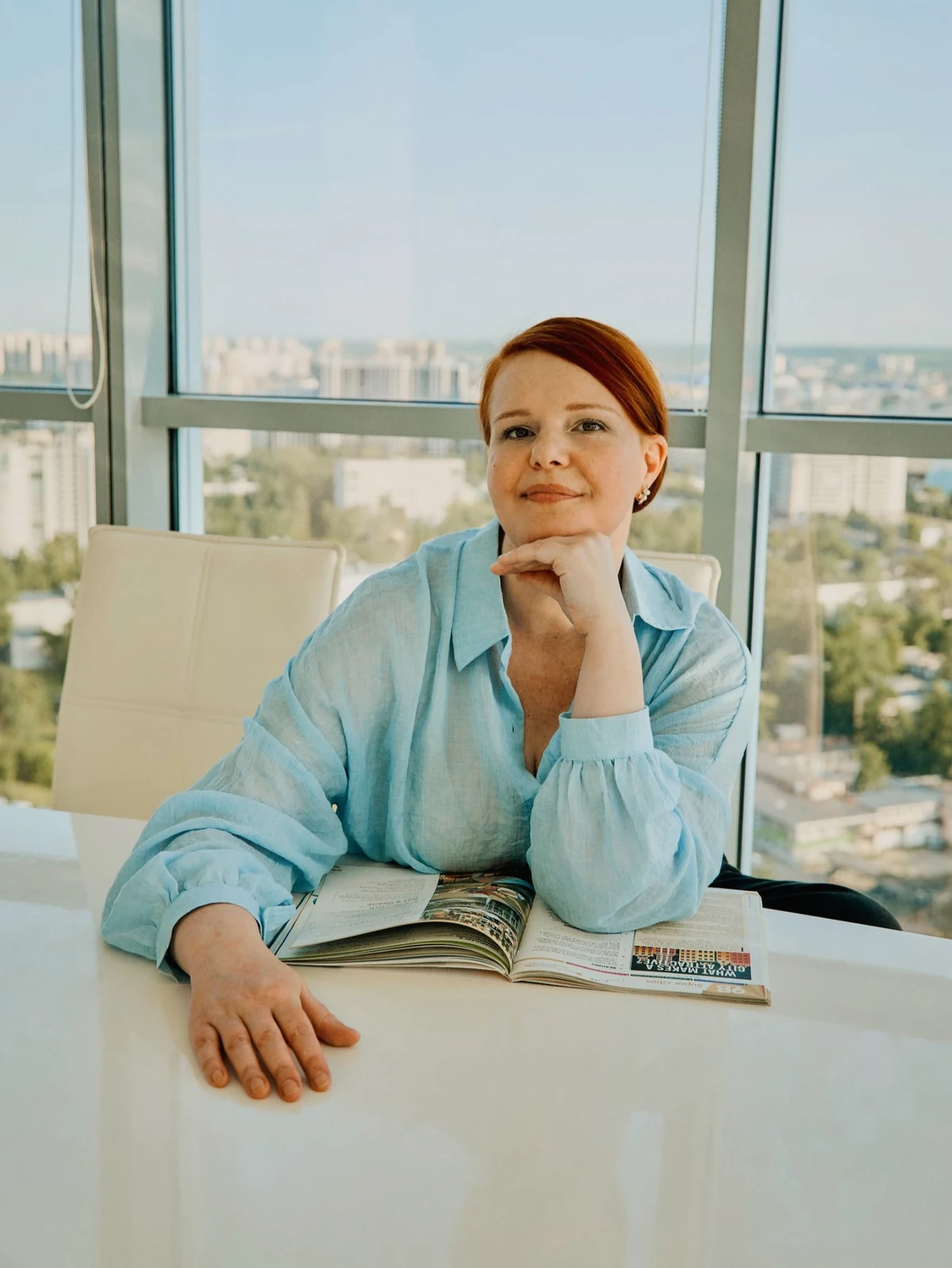
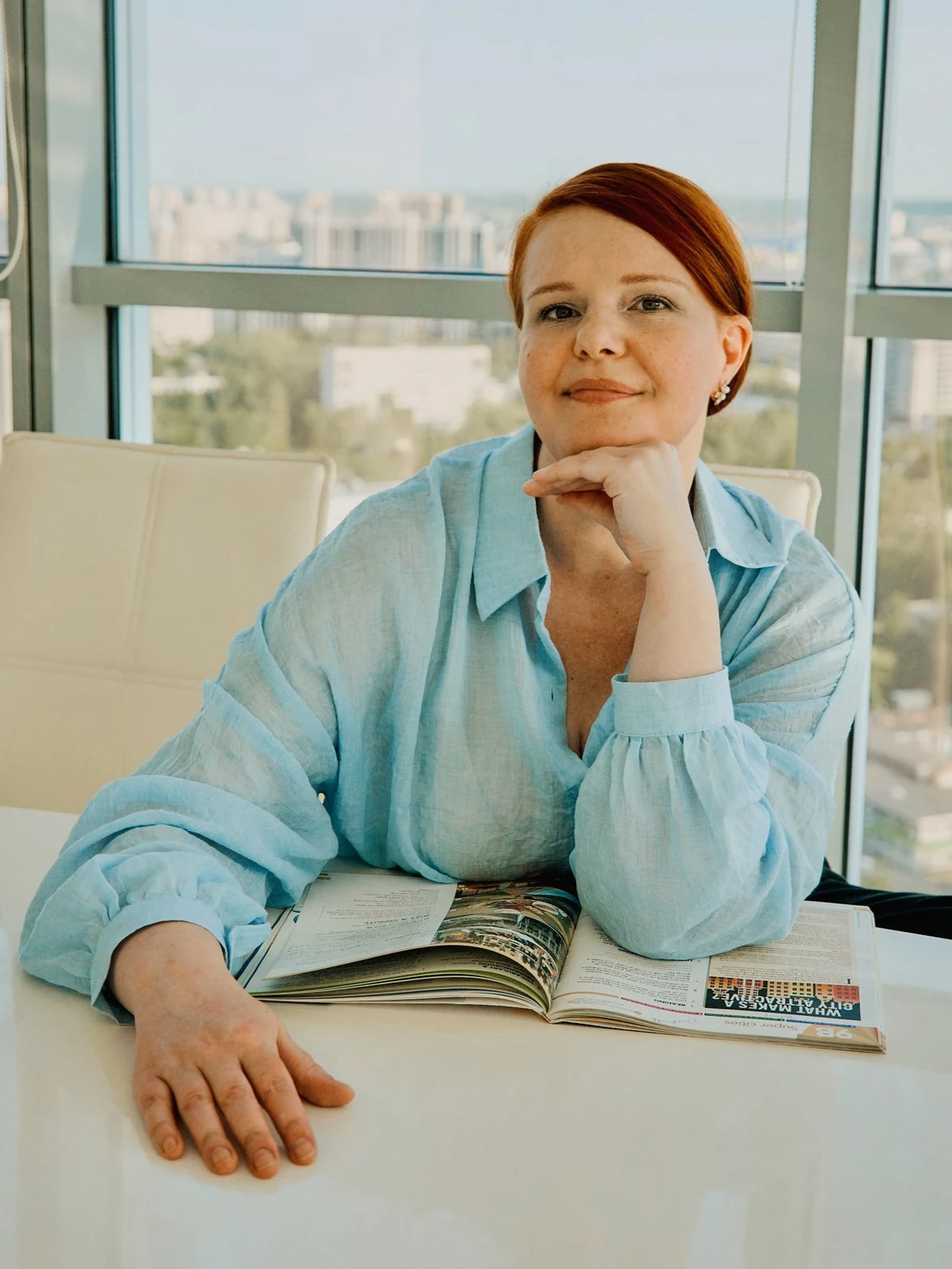
Add files via upload

diff --git a/index.html b/index.html
@@ -290,14 +290,14 @@
 <button aria-label="Скрыть лицензии и сертификаты" class="trust-docs-close" type="button">×</button>
 </div>
 <div class="doc-grid">
-<a aria-label="Документ 1" class="doc" href="assets/images/licenses/license-01.jpg"><div class="doc-preview"><img alt="Лицензия или сертификат 1" loading="lazy" src="assets/images/licenses/license-01.jpg"/></div></a>
-<a aria-label="Документ 2" class="doc" href="assets/images/licenses/license-02.jpg"><div class="doc-preview"><img alt="Лицензия или сертификат 2" loading="lazy" src="assets/images/licenses/license-02.jpg"/></div></a>
-<a aria-label="Документ 3" class="doc" href="assets/images/licenses/license-03.jpg"><div class="doc-preview"><img alt="Лицензия или сертификат 3" loading="lazy" src="assets/images/licenses/license-03.jpg"/></div></a>
-<a aria-label="Документ 4" class="doc" href="assets/images/licenses/license-04.jpg"><div class="doc-preview"><img alt="Лицензия или сертификат 4" loading="lazy" src="assets/images/licenses/license-04.jpg"/></div></a>
-<a aria-label="Документ 5" class="doc" href="assets/images/licenses/license-05.jpg"><div class="doc-preview"><img alt="Лицензия или сертификат 5" loading="lazy" src="assets/images/licenses/license-05.jpg"/></div></a>
-<a aria-label="Документ 6" class="doc" href="assets/images/licenses/license-06.jpg"><div class="doc-preview"><img alt="Лицензия или сертификат 6" loading="lazy" src="assets/images/licenses/license-06.jpg"/></div></a>
-<a aria-label="Документ 7" class="doc" href="assets/images/licenses/license-07.jpg"><div class="doc-preview"><img alt="Лицензия или сертификат 7" loading="lazy" src="assets/images/licenses/license-07.jpg"/></div></a>
-<a aria-label="Документ 8" class="doc" href="assets/images/licenses/license-08.jpg"><div class="doc-preview"><img alt="Лицензия или сертификат 8" loading="lazy" src="assets/images/licenses/license-08.jpg"/></div></a>
+<a aria-label="Документ 1" class="doc" href="assets/images/licenses/full/license-01.webp"><div class="doc-preview"><img alt="Лицензия или сертификат 1" decoding="async" height="594" loading="lazy" src="assets/images/licenses/thumbs/license-01.webp" width="420"/></div></a>
+<a aria-label="Документ 2" class="doc" href="assets/images/licenses/full/license-02.webp"><div class="doc-preview"><img alt="Лицензия или сертификат 2" decoding="async" height="594" loading="lazy" src="assets/images/licenses/thumbs/license-02.webp" width="420"/></div></a>
+<a aria-label="Документ 3" class="doc" href="assets/images/licenses/full/license-03.webp"><div class="doc-preview"><img alt="Лицензия или сертификат 3" decoding="async" height="594" loading="lazy" src="assets/images/licenses/thumbs/license-03.webp" width="420"/></div></a>
+<a aria-label="Документ 4" class="doc" href="assets/images/licenses/full/license-04.webp"><div class="doc-preview"><img alt="Лицензия или сертификат 4" decoding="async" height="594" loading="lazy" src="assets/images/licenses/thumbs/license-04.webp" width="420"/></div></a>
+<a aria-label="Документ 5" class="doc" href="assets/images/licenses/full/license-05.webp"><div class="doc-preview"><img alt="Лицензия или сертификат 5" decoding="async" height="594" loading="lazy" src="assets/images/licenses/thumbs/license-05.webp" width="420"/></div></a>
+<a aria-label="Документ 6" class="doc" href="assets/images/licenses/full/license-06.webp"><div class="doc-preview"><img alt="Лицензия или сертификат 6" decoding="async" height="594" loading="lazy" src="assets/images/licenses/thumbs/license-06.webp" width="420"/></div></a>
+<a aria-label="Документ 7" class="doc" href="assets/images/licenses/full/license-07.webp"><div class="doc-preview"><img alt="Лицензия или сертификат 7" decoding="async" height="594" loading="lazy" src="assets/images/licenses/thumbs/license-07.webp" width="420"/></div></a>
+<a aria-label="Документ 8" class="doc" href="assets/images/licenses/full/license-08.webp"><div class="doc-preview"><img alt="Лицензия или сертификат 8" decoding="async" height="594" loading="lazy" src="assets/images/licenses/thumbs/license-08.webp" width="420"/></div></a>
 </div>
 </div></article>
 <div class="trust-benefit-grid">
@@ -318,7 +318,7 @@
 </div>
 <p class="section-text">Нажмите «Узнать подробнее», чтобы прочитать о профессиональном опыте каждого специалиста</p>
 </div>
-<div class="team"><details class="team-card"><summary class="team-summary"><div class="team-photo-placeholder"><img alt="Анна — фотография" class="team-photo" loading="lazy" src="assets/images/team/team-01.webp"/></div><div class="team-meta"><h3>Анна</h3><p class="team-role">Основатель и генеральный директор, преподаватель английского языка</p></div><div class="team-summary-footer"><span class="team-toggle-label">Узнать подробнее</span><span aria-hidden="true" class="team-toggle"></span></div></summary><div class="team-detail"><div><h4>О специалисте</h4><p>Привет! Я — основатель и директор школы Фабрика Английского.</p><p>Закончила магистратуру кафедры лингвистики СПбГУП по направлению «перевод и межкультурная коммуникация» (английский и испанский языки), являюсь постоянным членом приемной комиссии СПбГУП.</p><p>Фабрика Английского появилась в 2017 году как проект, в котором мы собрали преподавателей - огромных энтузиастов и профессионалов своего дела, которые заряжают своей любовью и любопытством к английскому языку, и объединили общую философию — обучение языку как средству реального общения, а не просто набору правил и тестов. Для меня особенно важно, чтобы у каждого ученика была возможность научиться мыслить на иностранном языке и чувствовать себя уверенно в любой ситуации.</p><p>Моя цель — создать пространство, где знания превращаются в уверенность, а владение языком становится дверью к новым возможностям.</p></div></div></details><details class="team-card"><summary class="team-summary"><div class="team-photo-placeholder"><img alt="Елена — фотография" class="team-photo" loading="lazy" src="assets/images/team/team-02.webp"/></div><div class="team-meta"><h3>Елена</h3><p class="team-role">Заместитель директора по учебной части, преподаватель английского языка</p></div><div class="team-summary-footer"><span class="team-toggle-label">Узнать подробнее</span><span aria-hidden="true" class="team-toggle"></span></div></summary><div class="team-detail"><div><h4>О специалисте</h4><p>Всем привет! Я преподаю английский с 2009 года, специализируюсь на работе с подростками и взрослыми, академическом письме (Academic Writing) и подготовке к международным экзаменам. Мой уровень владения языком — C2 (подтверждён сертификатом CPE Grade A), а педагогические навыки подкреплены сертификатами TKT и CELTA (2015). Окончила РГПУ им. Герцена в 2007 году, а с 2018 года являюсь одним из основателей Фабрики Английского.</p><p>Моя ключевая особенность — сочетание академического подхода с глубоким знанием истории и культуры англоязычных стран, что позволяет делать занятия не только полезными, но и увлекательными. Учу не просто языку, а критическому мышлению и эффективной коммуникации, помогая ученикам раскрыть их потенциал.</p></div></div></details><details class="team-card"><summary class="team-summary"><div class="team-photo-placeholder"><img alt="Даниил — фотография" class="team-photo" loading="lazy" src="assets/images/team/team-03.webp"/></div><div class="team-meta"><h3>Даниил</h3><p class="team-role">Директор по развитию, преподаватель английского языка</p></div><div class="team-summary-footer"><span class="team-toggle-label">Узнать подробнее</span><span aria-hidden="true" class="team-toggle"></span></div></summary><div class="team-detail"><div><h4>О специалисте</h4><p>Хай! Я - опытный преподаватель с 8-летним стажем, специализируюсь на работе с подростками и взрослыми. Имею уровень владения языком C2, подтверждённый международными сертификатами, и высшее образование в области прикладной лингвистики (СПбПУ им. Петра Великого). Начинал карьеру как переводчик, а также долгое время работал в одной из ведущих частных школ Санкт-Петербурга. С 2018 года вхожу в команду Фабрики Английского.</p><p>Моя сильная сторона — умение находить подход к ученикам любого возраста, создавая комфортную и продуктивную атмосферу на занятиях. Готовлю к экзаменам системно, минимизируя стресс и делая упор на понимание языка, а не на механическое заучивание. Уверен, что английский — это не просто предмет, а инструмент для новых возможностей, и помогаю ученикам в этом убедиться.</p></div></div></details></div>
+<div class="team"><details class="team-card"><summary class="team-summary"><div class="team-photo-placeholder"><img alt="Анна — фотография" class="team-photo" loading="lazy" src="assets/images/team/team-01.webp"/></div><div class="team-meta"><h3>Анна</h3><p class="team-role">Основатель и генеральный директор, преподаватель английского языка</p><div aria-label="Ключевые компетенции: Анна" class="team-tags"><span class="team-tag">Основатель школы</span><span class="team-tag">Перевод и коммуникация</span><span class="team-tag">Английский и испанский</span><span class="team-tag">Управление обучением</span></div></div><div class="team-summary-footer"><span class="team-toggle-label">Узнать подробнее</span><span aria-hidden="true" class="team-toggle"></span></div></summary><div class="team-detail"><div><h4>О специалисте</h4><p>Привет! Я — основатель и директор школы Фабрика Английского.</p><p>Закончила магистратуру кафедры лингвистики СПбГУП по направлению «перевод и межкультурная коммуникация» (английский и испанский языки), являюсь постоянным членом приемной комиссии СПбГУП.</p><p>Фабрика Английского появилась в 2017 году как проект, в котором мы собрали преподавателей - огромных энтузиастов и профессионалов своего дела, которые заряжают своей любовью и любопытством к английскому языку, и объединили общую философию — обучение языку как средству реального общения, а не просто набору правил и тестов. Для меня особенно важно, чтобы у каждого ученика была возможность научиться мыслить на иностранном языке и чувствовать себя уверенно в любой ситуации.</p><p>Моя цель — создать пространство, где знания превращаются в уверенность, а владение языком становится дверью к новым возможностям.</p></div></div></details><details class="team-card"><summary class="team-summary"><div class="team-photo-placeholder"><img alt="Елена — фотография" class="team-photo" loading="lazy" src="assets/images/team/team-02.webp"/></div><div class="team-meta"><h3>Елена</h3><p class="team-role">Заместитель директора по учебной части, преподаватель английского языка</p><div aria-label="Ключевые компетенции: Елена" class="team-tags"><span class="team-tag">Уровень C2</span><span class="team-tag">CELTA и TKT</span><span class="team-tag">Academic Writing</span><span class="team-tag">Международные экзамены</span></div></div><div class="team-summary-footer"><span class="team-toggle-label">Узнать подробнее</span><span aria-hidden="true" class="team-toggle"></span></div></summary><div class="team-detail"><div><h4>О специалисте</h4><p>Всем привет! Я преподаю английский с 2009 года, специализируюсь на работе с подростками и взрослыми, академическом письме (Academic Writing) и подготовке к международным экзаменам. Мой уровень владения языком — C2 (подтверждён сертификатом CPE Grade A), а педагогические навыки подкреплены сертификатами TKT и CELTA (2015). Окончила РГПУ им. Герцена в 2007 году, а с 2018 года являюсь одним из основателей Фабрики Английского.</p><p>Моя ключевая особенность — сочетание академического подхода с глубоким знанием истории и культуры англоязычных стран, что позволяет делать занятия не только полезными, но и увлекательными. Учу не просто языку, а критическому мышлению и эффективной коммуникации, помогая ученикам раскрыть их потенциал.</p></div></div></details><details class="team-card"><summary class="team-summary"><div class="team-photo-placeholder"><img alt="Даниил — фотография" class="team-photo" loading="lazy" src="assets/images/team/team-03.webp"/></div><div class="team-meta"><h3>Даниил</h3><p class="team-role">Директор по развитию, преподаватель английского языка</p><div aria-label="Ключевые компетенции: Даниил" class="team-tags"><span class="team-tag">Уровень C2</span><span class="team-tag">Подростки и взрослые</span><span class="team-tag">Подготовка к экзаменам</span><span class="team-tag">Прикладная лингвистика</span></div></div><div class="team-summary-footer"><span class="team-toggle-label">Узнать подробнее</span><span aria-hidden="true" class="team-toggle"></span></div></summary><div class="team-detail"><div><h4>О специалисте</h4><p>Хай! Я - опытный преподаватель с 8-летним стажем, специализируюсь на работе с подростками и взрослыми. Имею уровень владения языком C2, подтверждённый международными сертификатами, и высшее образование в области прикладной лингвистики (СПбПУ им. Петра Великого). Начинал карьеру как переводчик, а также долгое время работал в одной из ведущих частных школ Санкт-Петербурга. С 2018 года вхожу в команду Фабрики Английского.</p><p>Моя сильная сторона — умение находить подход к ученикам любого возраста, создавая комфортную и продуктивную атмосферу на занятиях. Готовлю к экзаменам системно, минимизируя стресс и делая упор на понимание языка, а не на механическое заучивание. Уверен, что английский — это не просто предмет, а инструмент для новых возможностей, и помогаю ученикам в этом убедиться.</p></div></div></details></div>
 </div>
 </section>
 <section id="faq">
@@ -381,7 +381,6 @@
 <a aria-label="Позвонить в Фабрику Английского по номеру +7 921 952-41-00" class="contact-direct-card" href="tel:+79219524100">
 <span>ТЕЛЕФОН И MAX</span>
 <strong>+7 (921) 952-41-00</strong>
-
 <span aria-hidden="true" class="contact-link-mark">↗</span>
 </a>
 <a aria-label="Написать в Фабрику Английского по электронной почте" class="contact-direct-card" href="mailto:info.english-factory@yandex.ru">
@@ -393,10 +392,10 @@
 <div class="contact-social-block">
 <span class="contact-social-title">МЕССЕНДЖЕРЫ И СОЦИАЛЬНЫЕ СЕТИ</span>
 <div class="contact-social-icons">
-<a aria-label="Telegram" class="contact-social-icon" href="https://t.me/ENGLISH_FACTORY2017" rel="noopener" target="_blank" title="Telegram"><span aria-hidden="true" class="contact-social-icon-text">TG</span><span class="sr-only">Telegram</span></a>
-<a aria-label="WhatsApp" class="contact-social-icon" href="https://wa.me/79219524100" rel="noopener" target="_blank" title="WhatsApp"><span aria-hidden="true" class="contact-social-icon-text">WA</span><span class="sr-only">WhatsApp</span></a>
-<a aria-label="ВКонтакте" class="contact-social-icon" href="https://vk.ru/englishfactory" rel="noopener" target="_blank" title="ВКонтакте"><span aria-hidden="true" class="contact-social-icon-text">VK</span><span class="sr-only">ВКонтакте</span></a>
-<a aria-label="YouTube" class="contact-social-icon" href="https://www.youtube.com/@englishfactoryonline" rel="noopener" target="_blank" title="YouTube"><span aria-hidden="true" class="contact-social-icon-text">YT</span><span class="sr-only">YouTube</span></a>
+<a aria-label="Telegram" class="contact-social-icon" href="https://t.me/ENGLISH_FACTORY2017" rel="noopener" target="_blank" title="Telegram"><svg aria-hidden="true" class="social-svg social-svg--telegram" focusable="false" viewbox="0 0 24 24"><path d="M11.944 0A12 12 0 0 0 0 12a12 12 0 0 0 12 12 12 12 0 0 0 12-12A12 12 0 0 0 12 0a12 12 0 0 0-.056 0zm4.962 7.224c.1-.002.321.023.465.14a.506.506 0 0 1 .171.325c.016.093.036.306.02.472-.18 1.898-.962 6.502-1.36 8.627-.168.9-.499 1.201-.82 1.23-.696.065-1.225-.46-1.9-.902-1.056-.693-1.653-1.124-2.678-1.8-1.185-.78-.417-1.21.258-1.91.177-.184 3.247-2.977 3.307-3.23.007-.032.014-.15-.056-.212s-.174-.041-.249-.024c-.106.024-1.793 1.14-5.061 3.345-.48.33-.913.49-1.302.48-.428-.008-1.252-.241-1.865-.44-.752-.245-1.349-.374-1.297-.789.027-.216.325-.437.893-.663 3.498-1.524 5.83-2.529 6.998-3.014 3.332-1.386 4.025-1.627 4.476-1.635z"></path></svg><span class="sr-only">Telegram</span></a>
+<a aria-label="WhatsApp" class="contact-social-icon" href="https://wa.me/79219524100" rel="noopener" target="_blank" title="WhatsApp"><svg aria-hidden="true" class="social-svg social-svg--whatsapp" focusable="false" viewbox="0 0 24 24"><path d="M17.472 14.382c-.297-.149-1.758-.867-2.03-.967-.273-.099-.471-.148-.67.15-.197.297-.767.966-.94 1.164-.173.199-.347.223-.644.075-.297-.15-1.255-.463-2.39-1.475-.883-.788-1.48-1.761-1.653-2.059-.173-.297-.018-.458.13-.606.134-.133.298-.347.446-.52.149-.174.198-.298.298-.497.099-.198.05-.371-.025-.52-.075-.149-.669-1.612-.916-2.207-.242-.579-.487-.5-.669-.51-.173-.008-.371-.01-.57-.01-.198 0-.52.074-.792.372-.272.297-1.04 1.016-1.04 2.479s1.065 2.876 1.213 3.074c.149.198 2.095 3.2 5.076 4.487.709.306 1.262.489 1.693.625.712.227 1.36.195 1.872.118.571-.085 1.758-.719 2.006-1.413.248-.694.248-1.29.173-1.414-.074-.124-.272-.198-.57-.347m-5.421 7.403h-.004a9.87 9.87 0 0 1-5.031-1.378l-.361-.214-3.741.981.998-3.648-.235-.374a9.86 9.86 0 0 1-1.51-5.26c.001-5.45 4.436-9.884 9.888-9.884a9.82 9.82 0 0 1 7.021 2.91 9.825 9.825 0 0 1 2.9 7.026c-.003 5.45-4.437 9.884-9.885 9.884m8.413-18.297A11.815 11.815 0 0 0 12.05 0C5.495 0 .16 5.335.157 11.892c0 2.096.547 4.142 1.588 5.945L.057 24l6.305-1.654a11.882 11.882 0 0 0 5.947 1.516h.005c6.554 0 11.89-5.335 11.893-11.893a11.821 11.821 0 0 0-3.48-8.413Z"></path></svg><span class="sr-only">WhatsApp</span></a>
+<a aria-label="ВКонтакте" class="contact-social-icon" href="https://vk.ru/englishfactory" rel="noopener" target="_blank" title="ВКонтакте"><svg aria-hidden="true" class="social-svg social-svg--vk" focusable="false" viewbox="0 0 576 512"><path d="M545.8 135.1c3.7-12.5 0-21.8-17.8-21.8h-58.9c-15 0-21.9 7.9-25.6 16.7 0 0-30 73.1-72.5 120.5-13.7 13.7-20 18.1-27.5 18.1-3.7 0-5-4.4-5-16.9V135.1c0-15-4.4-21.8-17.5-21.8h-92.5c-9.4 0-15 7-15 13.7 0 14.2 21.2 17.5 23.4 57.5v86.8c0 19-3.4 22.5-10.9 22.5-20 0-68.6-73.4-97.4-157.4-5.6-16.3-11.3-23.1-26.3-23.1H47.4c-16.9 0-20.3 7.9-20.3 16.7 0 15.6 20 93.1 93.1 195.6 48.8 70 117.5 108 180 108 37.5 0 42.2-8.4 42.2-22.9v-52.8c0-16.8 3.6-20.2 15.4-20.2 8.7 0 23.7 4.4 58.7 38.1 40 40 46.6 58 69 58h58.9c16.9 0 25.3-8.4 20.4-25-5.5-16.3-25.3-40-51.6-69.7-14.4-16.9-36-35-42.5-43.8-8.7-11.2-6.2-16.2 0-26.2.1 0 75.1-105.6 82.9-141.6z"></path></svg><span class="sr-only">ВКонтакте</span></a>
+<a aria-label="YouTube" class="contact-social-icon" href="https://www.youtube.com/@englishfactoryonline" rel="noopener" target="_blank" title="YouTube"><svg aria-hidden="true" class="social-svg social-svg--youtube" focusable="false" viewbox="0 0 24 24"><path d="M23.498 6.186a3.016 3.016 0 0 0-2.122-2.136C19.505 3.545 12 3.545 12 3.545s-7.505 0-9.377.505A3.017 3.017 0 0 0 .502 6.186C0 8.07 0 12 0 12s0 3.93.502 5.814a3.017 3.017 0 0 0 2.122 2.136c1.871.505 9.376.505 9.376.505s7.505 0 9.377-.505a3.016 3.016 0 0 0 2.122-2.136C24 15.93 24 12 24 12s0-3.93-.502-5.814zM9.545 15.568V8.432L15.818 12l-6.273 3.568z"></path></svg><span class="sr-only">YouTube</span></a>
 </div>
 </div>
 </div>

diff --git a/assets/css/styles.css b/assets/css/styles.css
@@ -2673,3 +2673,81 @@ a.contact-card:hover { transform: translateY(-2px); border-color: rgba(160,28,23
   transform: scale(1.015);
   transform-origin: center center;
 }
+
+
+/* ===== Team competency chips, optimized documents and stable social icons — 2026-08-04 ===== */
+.team-tags {
+  display: flex;
+  flex-wrap: wrap;
+  gap: 7px;
+  margin-top: 14px;
+}
+
+.team-tag {
+  display: inline-flex;
+  align-items: center;
+  min-height: 30px;
+  padding: 6px 10px;
+  border-radius: 999px;
+  border: 1px solid rgba(89, 145, 203, .16);
+  background: var(--soft-blue);
+  color: #24547f;
+  font-size: 12px;
+  line-height: 1.15;
+  font-weight: 820;
+  letter-spacing: .005em;
+}
+
+.team-card:nth-child(1) .team-tag {
+  border-color: rgba(160, 28, 23, .12);
+  background: var(--soft-red);
+  color: var(--red);
+}
+
+.team-card:nth-child(3) .team-tag {
+  border-color: var(--support-border, #dcc6d0);
+  background: var(--soft-support, #f3e9ed);
+  color: var(--support, #703d54);
+}
+
+.team-card[open] .team-tags {
+  margin-top: 12px;
+}
+
+/* The new Elena portrait is already tightly framed; keep her face aligned with the other portraits. */
+.team-card:nth-child(2) .team-photo {
+  object-position: center 42%;
+}
+
+/* Inline SVGs share one fixed optical box, preventing individual source files from shifting. */
+.contact-social-icon .social-svg {
+  display: block;
+  flex: 0 0 auto;
+  width: 29px;
+  height: 29px;
+  overflow: visible;
+  fill: currentColor;
+  color: currentColor;
+  transform: none;
+  opacity: 1;
+}
+
+.contact-social-icon .social-svg--telegram { width: 29px; height: 29px; }
+.contact-social-icon .social-svg--whatsapp { width: 28px; height: 28px; }
+.contact-social-icon .social-svg--vk { width: 31px; height: 28px; }
+.contact-social-icon .social-svg--youtube { width: 30px; height: 27px; }
+
+.contact-social-icon:hover .social-svg,
+.contact-social-icon:focus-visible .social-svg {
+  opacity: 1;
+}
+
+/* Lightweight thumbnails keep the document panel responsive. */
+.doc-preview img {
+  background: #fbf7f0;
+}
+
+@media (max-width: 680px) {
+  .team-tags { gap: 6px; margin-top: 12px; }
+  .team-tag { padding: 6px 9px; font-size: 11.5px; }
+}
